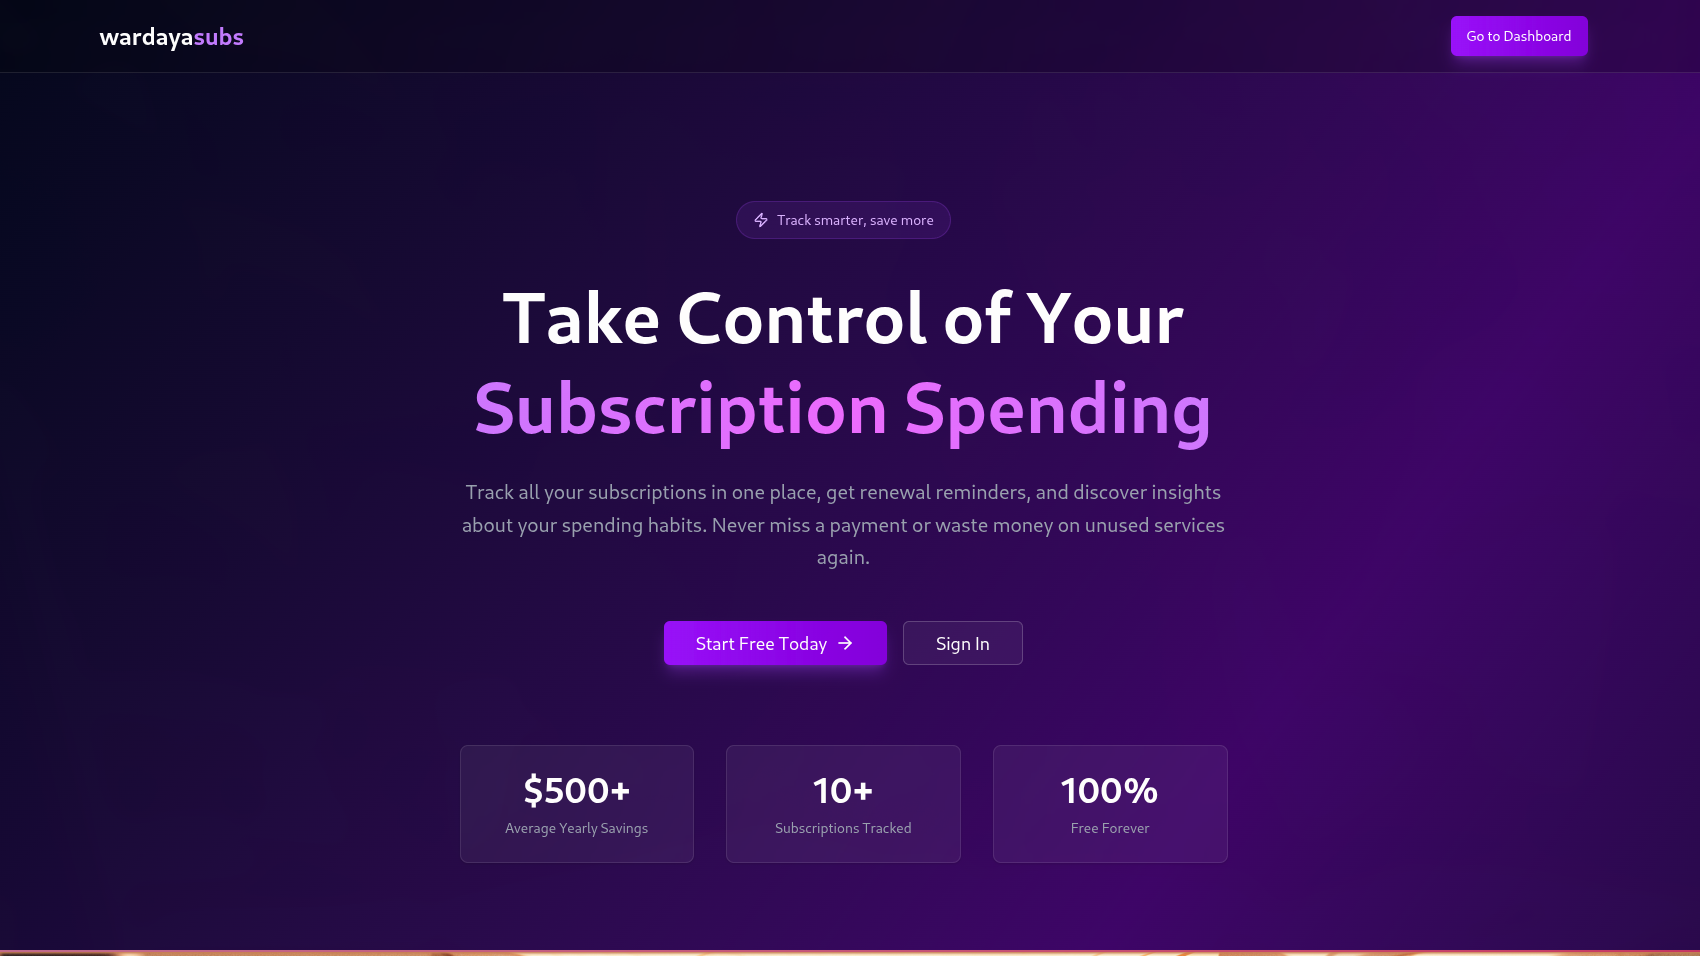
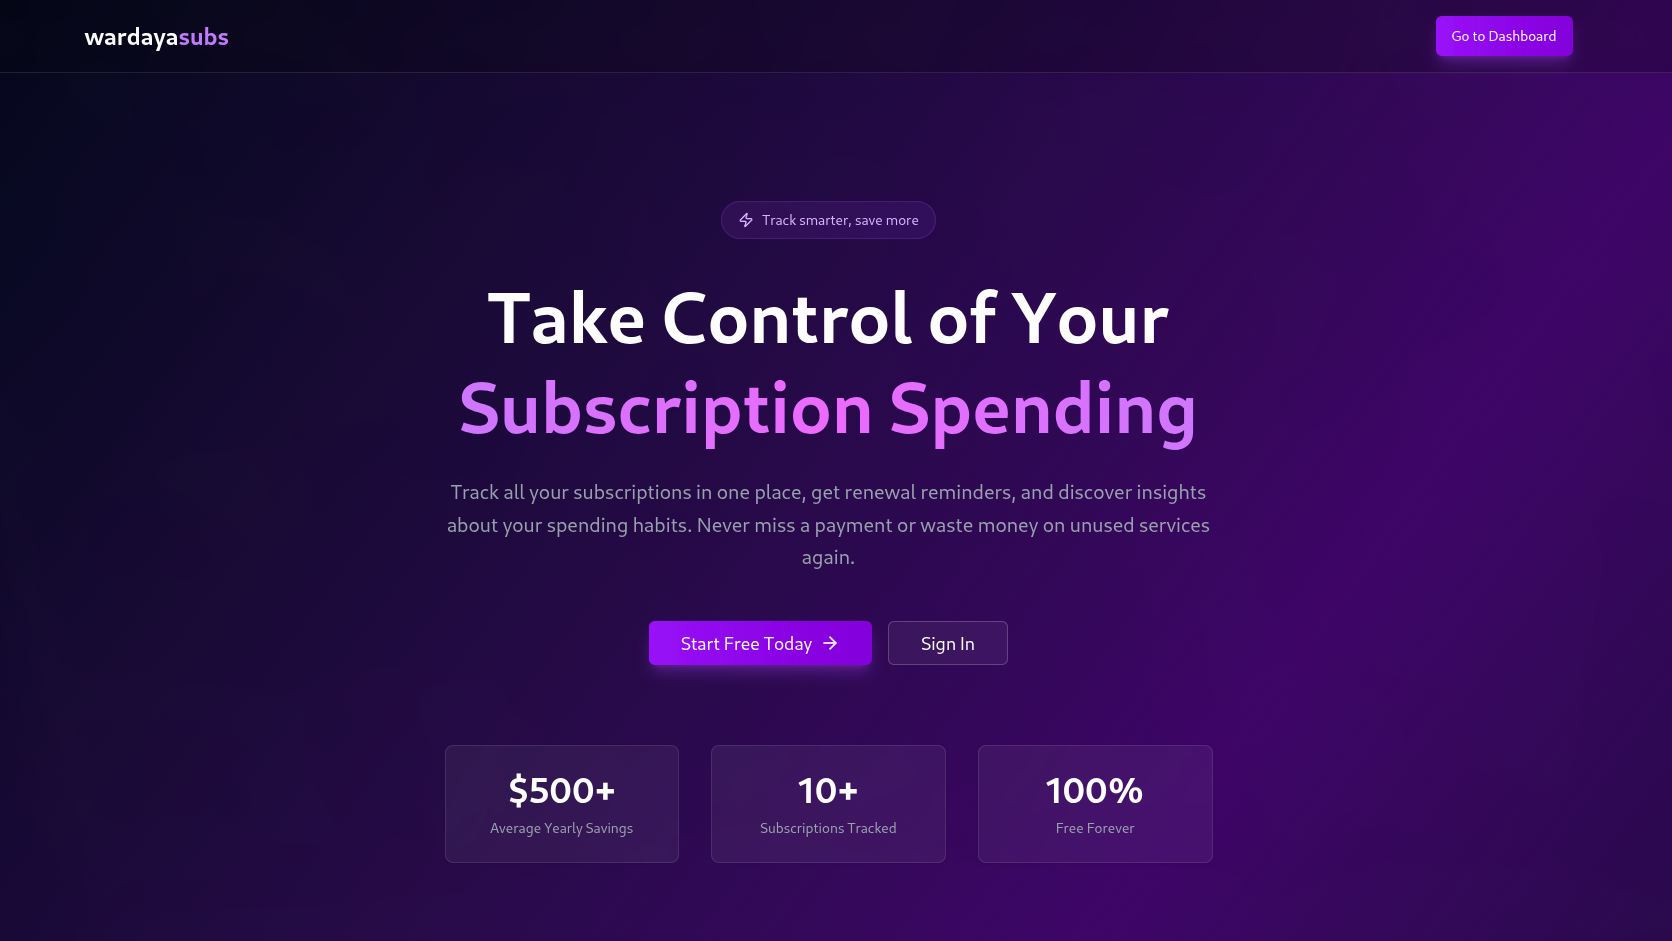
Update project details and add new portfolio image

diff --git a/src/components/sections/Portfolio.tsx b/src/components/sections/Portfolio.tsx
@@ -16,110 +16,110 @@ export function Portfolio() {
       />
 
       <div className="grid gap-6">
-        {projects.map((project, i) => (
-          <motion.div
-            key={project.title}
-            initial={{ opacity: 0, y: 30 }}
-            whileInView={{ opacity: 1, y: 0 }}
-            viewport={{ once: true, amount: 0.15 }}
-            transition={{ duration: 0.6, delay: i * 0.1 }}
-            className="group relative"
-          >
-            <div className="relative rounded-2xl border border-border bg-surface overflow-hidden transition-all duration-500 hover:border-accent/30">
-              <div className="grid md:grid-cols-5 gap-0">
-                {/* Image / Visual */}
-                <div className="md:col-span-2 relative aspect-[16/10] md:aspect-auto bg-surface-elevated overflow-hidden">
-                  {project.image ? (
-                    <Image
-                      src={project.image}
-                      alt={project.title}
-                      fill
-                      className="object-cover transition-transform duration-500 group-hover:scale-105"
-                      sizes="(max-width: 768px) 100vw, 40vw"
-                    />
-                  ) : (
-                    <>
-                      <div className="absolute inset-0 grid-pattern" />
-                      <div className="absolute inset-0 flex items-center justify-center">
-                        <div className="text-center p-8">
-                          <div className="w-16 h-16 mx-auto rounded-2xl bg-accent/10 border border-accent/20 flex items-center justify-center mb-3">
-                            <span className="text-2xl font-display font-black text-accent">
-                              {project.title.charAt(0)}
+        {projects.map((project, i) => {
+          const CardWrapper = project.link
+            ? ({ children, className }: { children: React.ReactNode; className?: string }) => (
+                <a
+                  href={project.link}
+                  target="_blank"
+                  rel="noopener noreferrer"
+                  className={className}
+                >
+                  {children}
+                </a>
+              )
+            : ({ children, className }: { children: React.ReactNode; className?: string }) => (
+                <div className={className}>{children}</div>
+              );
+
+          return (
+            <motion.div
+              key={project.title}
+              initial={{ opacity: 0, y: 30 }}
+              whileInView={{ opacity: 1, y: 0 }}
+              viewport={{ once: true, amount: 0.15 }}
+              transition={{ duration: 0.6, delay: i * 0.1 }}
+              className="group relative"
+            >
+              <CardWrapper className={`block relative rounded-2xl border border-border bg-surface overflow-hidden transition-all duration-500 hover:border-accent/30 ${project.link ? "cursor-pointer" : ""}`}>
+                <div className="grid md:grid-cols-5 gap-0">
+                  {/* Image / Visual */}
+                  <div className="md:col-span-2 relative aspect-[16/10] md:aspect-auto bg-surface-elevated overflow-hidden">
+                    {project.image ? (
+                      <Image
+                        src={project.image}
+                        alt={project.title}
+                        fill
+                        className="object-cover transition-transform duration-500 group-hover:scale-105"
+                        sizes="(max-width: 768px) 100vw, 40vw"
+                      />
+                    ) : (
+                      <>
+                        <div className="absolute inset-0 grid-pattern" />
+                        <div className="absolute inset-0 flex items-center justify-center">
+                          <div className="text-center p-8">
+                            <div className="w-16 h-16 mx-auto rounded-2xl bg-accent/10 border border-accent/20 flex items-center justify-center mb-3">
+                              <span className="text-2xl font-display font-black text-accent">
+                                {project.title.charAt(0)}
+                              </span>
+                            </div>
+                            <span className="text-xs font-mono text-muted-foreground">
+                              {project.year}
                             </span>
                           </div>
-                          <span className="text-xs font-mono text-muted-foreground">
-                            {project.year}
-                          </span>
                         </div>
-                      </div>
-                    </>
-                  )}
-                  {/* Overlay on hover */}
-                  <div className="absolute inset-0 bg-accent/5 opacity-0 group-hover:opacity-100 transition-opacity duration-500" />
-                </div>
+                      </>
+                    )}
+                    {/* Overlay on hover */}
+                    <div className="absolute inset-0 bg-accent/5 opacity-0 group-hover:opacity-100 transition-opacity duration-500" />
+                  </div>
 
-                {/* Content */}
-                <div className="md:col-span-3 p-8 md:p-10 flex flex-col justify-between">
-                  <div>
-                    <div className="flex items-center gap-3 mb-4">
-                      <span className="px-3 py-1 text-xs font-mono rounded-full border border-accent/20 text-accent bg-accent/5">
-                        {project.category}
-                      </span>
-                      <span className="text-xs font-mono text-muted-foreground">
-                        {project.year}
-                      </span>
-                    </div>
-
-                    <h3 className="text-2xl md:text-3xl font-display font-bold mb-3 group-hover:text-accent transition-colors duration-300">
-                      {project.title}
-                    </h3>
-
-                    <p className="text-sm md:text-base text-muted-foreground leading-relaxed mb-6">
-                      {project.description}
-                    </p>
-
-                    <div className="flex flex-wrap gap-2">
-                      {project.tags.map((tag) => (
-                        <span
-                          key={tag}
-                          className="px-3 py-1 text-xs font-mono rounded-full border border-border text-muted-foreground"
-                        >
-                          {tag}
+                  {/* Content */}
+                  <div className="md:col-span-3 p-8 md:p-10 flex flex-col justify-between">
+                    <div>
+                      <div className="flex items-center gap-3 mb-4">
+                        <span className="px-3 py-1 text-xs font-mono rounded-full border border-accent/20 text-accent bg-accent/5">
+                          {project.category}
                         </span>
-                      ))}
+                        <span className="text-xs font-mono text-muted-foreground">
+                          {project.year}
+                        </span>
+                      </div>
+
+                      <h3 className="text-2xl md:text-3xl font-display font-bold mb-3 group-hover:text-accent transition-colors duration-300">
+                        {project.title}
+                      </h3>
+
+                      <p className="text-sm md:text-base text-muted-foreground leading-relaxed mb-6">
+                        {project.description}
+                      </p>
+
+                      <div className="flex flex-wrap gap-2">
+                        {project.tags.map((tag) => (
+                          <span
+                            key={tag}
+                            className="px-3 py-1 text-xs font-mono rounded-full border border-border text-muted-foreground"
+                          >
+                            {tag}
+                          </span>
+                        ))}
+                      </div>
+                    </div>
+
+                    <div className="mt-8 flex items-center gap-2 text-sm font-medium text-muted-foreground group-hover:text-accent transition-colors duration-300">
+                      {project.link ? "Visit Project" : "Coming Soon"}
+                      <ArrowUpRight
+                        size={14}
+                        className="transition-transform duration-300 group-hover:translate-x-0.5 group-hover:-translate-y-0.5"
+                      />
                     </div>
                   </div>
-
-                  <div className="mt-8 flex items-center gap-2 text-sm font-medium text-muted-foreground group-hover:text-accent transition-colors duration-300">
-                    View Case Study
-                    <ArrowUpRight
-                      size={14}
-                      className="transition-transform duration-300 group-hover:translate-x-0.5 group-hover:-translate-y-0.5"
-                    />
-                  </div>
                 </div>
-              </div>
-            </div>
-          </motion.div>
-        ))}
+              </CardWrapper>
+            </motion.div>
+          );
+        })}
       </div>
-
-      {/* View All */}
-      <motion.div
-        initial={{ opacity: 0, y: 20 }}
-        whileInView={{ opacity: 1, y: 0 }}
-        viewport={{ once: true }}
-        transition={{ duration: 0.6, delay: 0.3 }}
-        className="mt-12 text-center"
-      >
-        <a
-          href="#"
-          className="inline-flex items-center gap-2 px-6 py-3 text-sm font-medium border border-border rounded-full text-muted-foreground hover:border-accent hover:text-accent transition-all duration-300"
-        >
-          View All Projects
-          <ExternalLink size={14} />
-        </a>
-      </motion.div>
     </SectionWrapper>
   );
 }

diff --git a/src/lib/constants.ts b/src/lib/constants.ts
@@ -56,7 +56,7 @@ export const projects = [
     description:
       "Full-stack subscription tracking and spending analytics platform with AI-powered chatbot, spending forecasts, billing comparison, and automated renewal reminders.",
     tags: ["React", "TypeScript", "Node.js", "PostgreSQL"],
-    year: "2025",
+    year: "2026",
     image: "/images/project-1.png",
     link: "https://wardayasubs.wardaya.my.id",
   },
@@ -75,18 +75,18 @@ export const projects = [
     description:
       "Real-time bus tracking system with live GPS monitoring, route optimization, and passenger information displays.",
     tags: ["Next.js", "WebSocket", "IoT", "Redis"],
-    year: "2024",
+    year: "2025",
     image: "/images/project-3.png",
   },
   {
-    title: "YuwarajaXVI",
-    category: "Education",
+    title: "UB Voice",
+    category: "Game",
     description:
-      "Official web platform for new students of Fakultas Vokasi Universitas Brawijaya. Handles online registration, orientation schedules, assignments, and user management for admins, students, and supervisors.",
-    tags: ["Laravel", "MySQL", "Tailwind CSS", "Vite"],
-    year: "2024",
-    image: "/images/project-4.jpg",
-    link: "https://yuwaraja.site",
+      "Universitas Brawijaya Virtual Campus on Roblox. An immersive virtual campus experience bringing the university environment into a game platform.",
+    tags: ["Roblox", "Lua", "Game Dev", "3D"],
+    year: "2025",
+    image: "/images/project-4.png",
+    link: "https://ubvoice.my.id",
   },
 ];
 

diff --git a/src/components/sections/About.tsx b/src/components/sections/About.tsx
@@ -62,7 +62,7 @@ export function About() {
                     />
                   </div>
                   <p className="text-sm font-mono text-muted-foreground">
-                    Est. 2022
+                    Est. 2025
                   </p>
                 </div>
               </div>
@@ -85,7 +85,7 @@ export function About() {
             <div className="flex items-center gap-4 pt-4">
               <div className="h-px flex-1 bg-border" />
               <span className="text-xs font-mono text-accent tracking-widest uppercase">
-                Since 2022
+                Since 2025
               </span>
               <div className="h-px flex-1 bg-border" />
             </div>

diff --git a/src/components/ui/SectionWrapper.tsx b/src/components/ui/SectionWrapper.tsx
@@ -17,7 +17,7 @@ export function SectionWrapper({
   fullWidth = false,
 }: SectionWrapperProps) {
   return (
-    <section id={id} className={`relative py-24 md:py-32 ${className}`}>
+    <section id={id} className={`relative overflow-hidden py-24 md:py-32 ${className}`}>
       <div
         className={
           fullWidth ? "w-full" : "mx-auto max-w-7xl px-6 md:px-8 lg:px-12"

diff --git a/src/app/globals.css b/src/app/globals.css
@@ -32,6 +32,7 @@
 
 html {
   scroll-behavior: smooth;
+  overflow-x: hidden;
   scrollbar-width: thin;
   scrollbar-color: var(--accent) var(--surface);
 }
